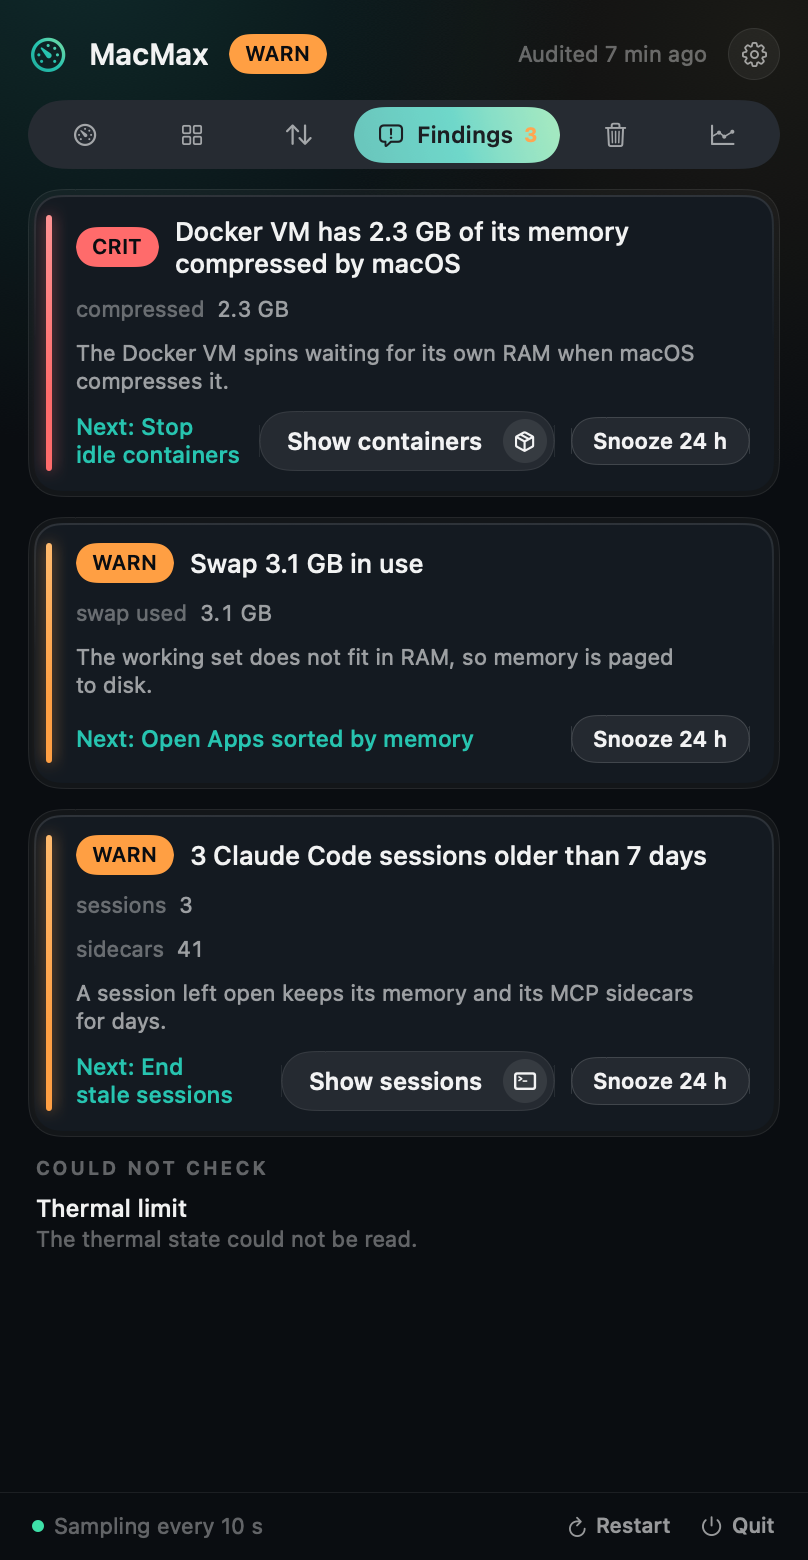
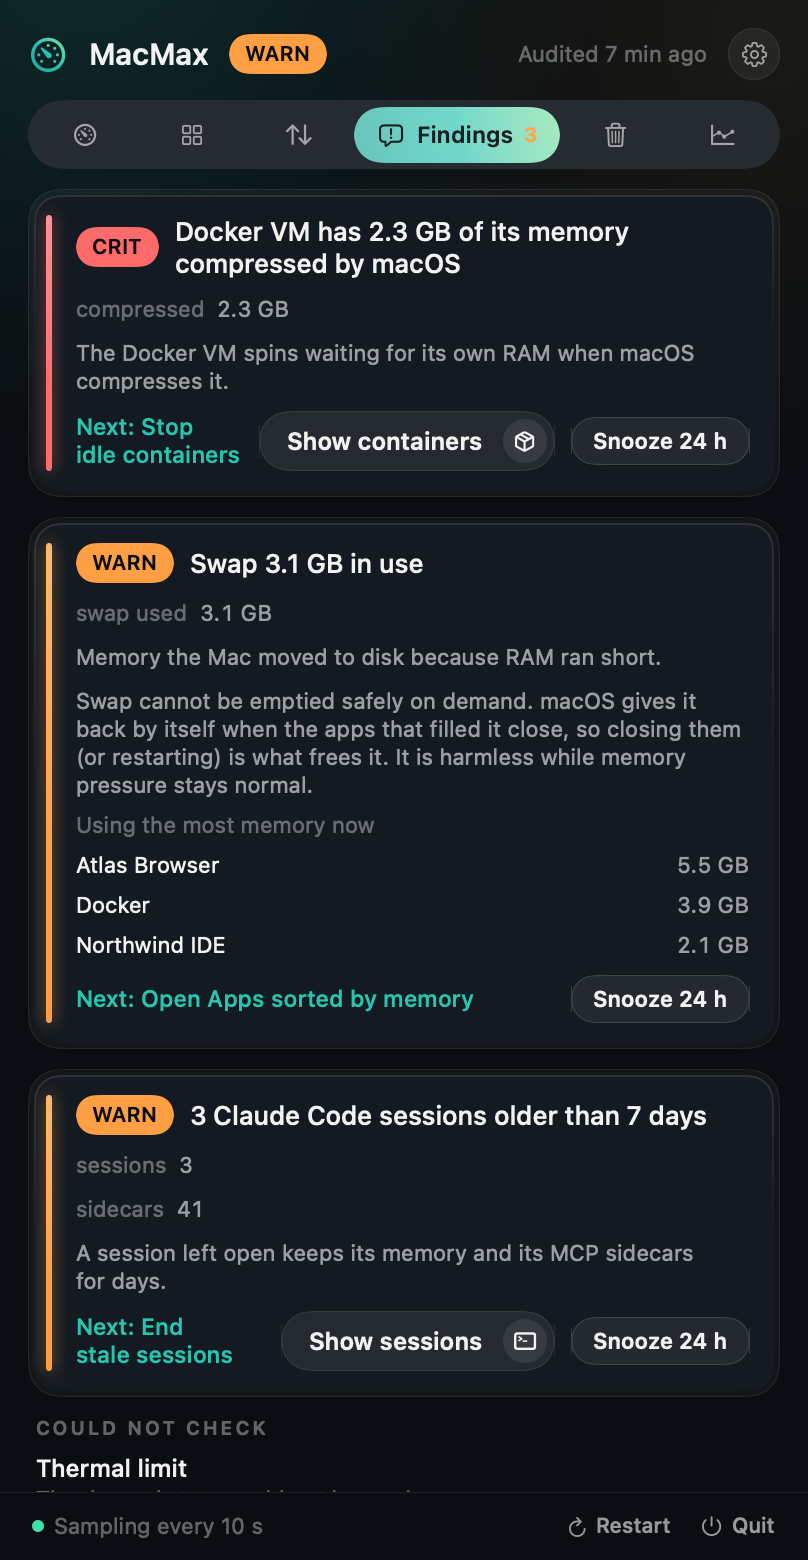
feat: the swap finding says swap cannot be emptied on demand and names the apps using the most memory

Changed region(s): [[0.0309, 0.4, 0.9282, 0.9538]]

diff --git a/Sources/MacMax/SwapNote.swift b/Sources/MacMax/SwapNote.swift
@@ -1,0 +1,30 @@
+import MacMaxCore
+import SwiftUI
+
+/// Under the swap finding: swap cannot be emptied on demand, so say what does help and who holds the memory.
+struct SwapNote: View {
+    let model: PanelModel
+
+    static func applies(to ruleID: String) -> Bool { ruleID == "swap_used" }
+
+    private var holders: [AppRow] {
+        Array(AppListing.sorted(model.apps, by: .memory).filter { $0.footprintBytes != nil }.prefix(3))
+    }
+
+    var body: some View {
+        VStack(alignment: .leading, spacing: 6) {
+            Text("Swap cannot be emptied safely on demand. macOS gives it back by itself when the apps that filled it close, so closing them (or restarting) is what frees it. It is harmless while memory pressure stays normal.")
+                .font(.meta).foregroundStyle(Theme.textSecondary).fixedSize(horizontal: false, vertical: true)
+            if !holders.isEmpty {
+                Text("Using the most memory now").font(.meta).foregroundStyle(Theme.textTertiary)
+                ForEach(holders) { app in
+                    HStack {
+                        Text(app.name).font(.meta).foregroundStyle(Theme.textPrimary).lineLimit(1)
+                        Spacer(minLength: 6)
+                        Text(CompactFormat.bytes(app.footprintBytes ?? 0)).font(.meta.monospacedDigit()).foregroundStyle(Theme.textSecondary)
+                    }
+                }
+            }
+        }
+    }
+}

diff --git a/Sources/MacMaxCore/Rules/ThresholdRules.swift b/Sources/MacMaxCore/Rules/ThresholdRules.swift
@@ -37,7 +37,7 @@ enum ThresholdRules {
                     thresholds: [t("T_SWAP_CRIT_GB", 6, "GB", 0.5...512), t("T_SWAP_WARN_GB", 2, "GB", 0.1...512)],
                     levels: [Level(severity: .crit, comparison: .above, line: .key("T_SWAP_CRIT_GB")),
                              Level(severity: .warn, comparison: .above, line: .key("T_SWAP_WARN_GB"))],
-                    style: .oneDecimal, why: "The working set does not fit in RAM, so memory is paged to disk.",
+                    style: .oneDecimal, why: "Memory the Mac moved to disk because RAM ran short.",
                     action: "Open Apps sorted by memory", scriptPattern: #"^Swap [\d.]+ GB in use.*$"#,
                     read: { $0.swapUsedGB }, headline: { _, text in "Swap \(text) GB in use" }),
         numericRule(id: "swap_in_rate", title: "Swapping in",

diff --git a/Sources/MacMax/FindingsTab.swift b/Sources/MacMax/FindingsTab.swift
@@ -53,6 +53,7 @@ struct FindingCard: View {
                     Text(finding.why).font(.meta).foregroundStyle(Theme.textSecondary).fixedSize(horizontal: false, vertical: true)
                 }
                 if TidyBlock.applies(to: finding.ruleID) { TidyBlock(model: model, ruleID: finding.ruleID) }
+                if SwapNote.applies(to: finding.ruleID) { SwapNote(model: model) }
                 HStack {
                     if let action = finding.action {
                         Text("Next: \(action)").font(.system(size: 11.5, weight: .medium))

diff --git a/README.md b/README.md
@@ -67,7 +67,7 @@ A slow afternoon, explained:
 |---|---|
 | **CRIT** | Docker's VM has 2.3 GB of its memory squeezed by macOS, so it crawls. **Stop idle containers.** |
 | **WARN** | 3 Claude Code sessions older than 7 days still hold 1.8 GB and 41 helper processes. **End them.** |
-| **WARN** | 3.1 GB of swap is in use: what you run does not fit in 16 GB of memory. Atlas Browser holds 5.6 GB. |
+| **WARN** | 3.1 GB of swap is in use: what you run does not fit in 16 GB of memory. Atlas Browser holds 5.5 GB. |
 | **OK** | Your traffic goes through your VPN as 203.0.113.20 (DE). Your ISP address stays hidden. |
 
 Nothing is guessed: every finding names the numbers that fired it, and the checks are the same
